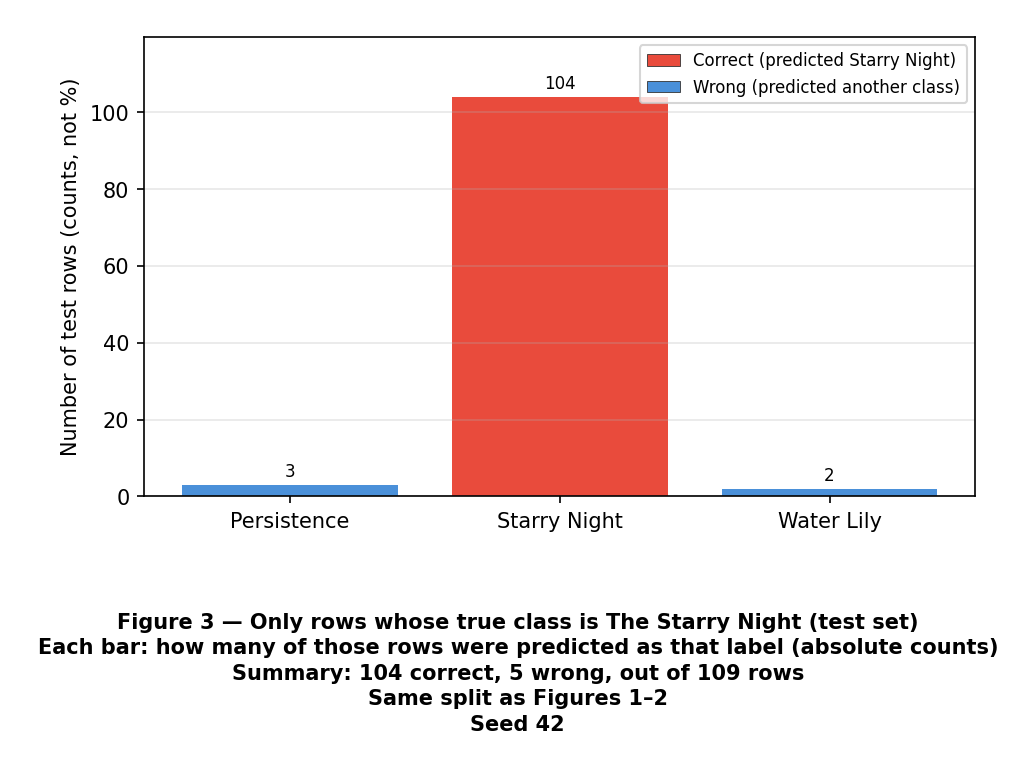
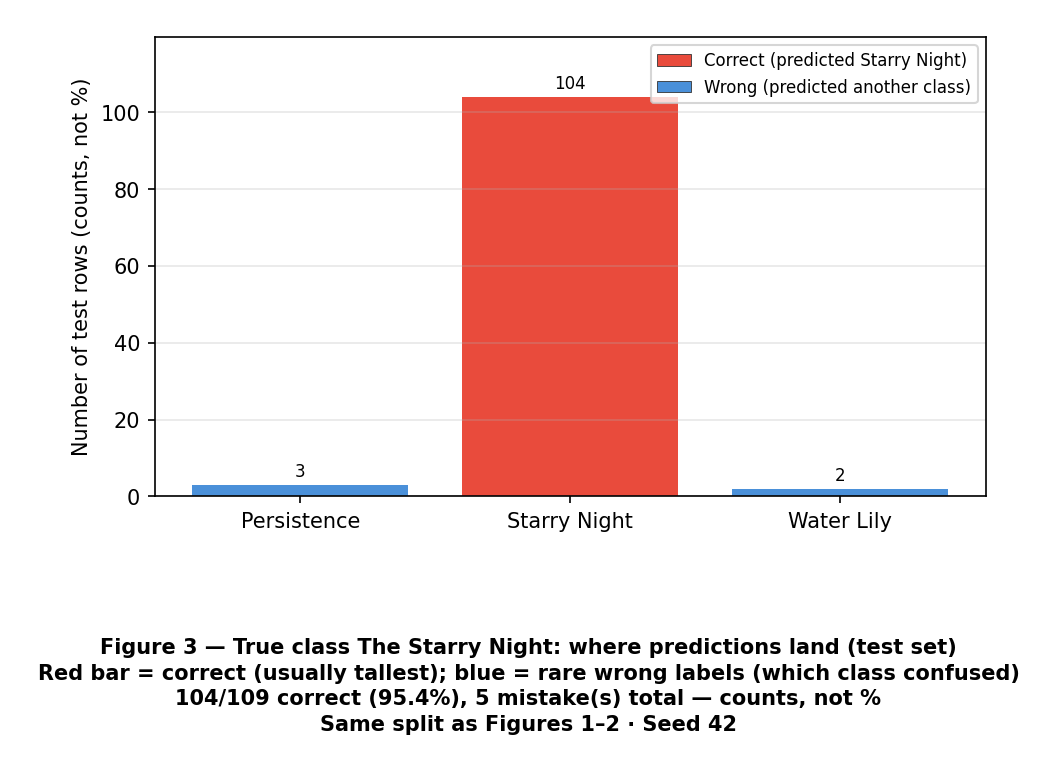
plots fig3: frame as mostly-correct; blue = few confusions by class
Made-with: Cursor

diff --git a/report_figures.py b/report_figures.py
@@ -20,7 +20,7 @@ Usage (repository root, ``training_data.csv`` present)::
     Confusion matrix for stacked classifier on the 20% test set.
 
 ``plots/03_errors_true_starry_night.png``
-    True class Starry Night: **counts** of predicted label (not %); legend = correct vs wrong.
+    Starry Night test rows: mostly correct; blue bars show rare mistakes and confused-into class.
 
 ``plots/04_partition_seed_sensitivity.png``
     Stacking test accuracy vs random seed for the train/test split (same 80/20 protocol).
@@ -202,14 +202,14 @@ def figure_starry_night_errors(r: dict, path: Path, split_seed: int) -> None:
         pass
     top = float(counts.max()) if len(counts) else 0.0
     ax.set_ylim(0, max(top * 1.15, top + 1.0))
+    pct_ok = 100.0 * n_ok / n_sub if n_sub else 0.0
     _figure_label_below(
         fig,
         (
-            "Figure 3 — Only rows whose true class is The Starry Night (test set)",
-            "Each bar: how many of those rows were predicted as that label (absolute counts)",
-            f"Summary: {n_ok} correct, {n_wrong} wrong, out of {n_sub} rows",
-            "Same split as Figures 1–2",
-            f"Seed {split_seed}",
+            "Figure 3 — True class The Starry Night: where predictions land (test set)",
+            "Red bar = correct (usually tallest); blue = rare wrong labels (which class confused)",
+            f"{n_ok}/{n_sub} correct ({pct_ok:.1f}%), {n_wrong} mistake(s) total — counts, not %",
+            f"Same split as Figures 1–2 · Seed {split_seed}",
         ),
     )
     fig.savefig(path, dpi=150, bbox_inches="tight", pad_inches=0.25)

diff --git a/plots/README.md b/plots/README.md
@@ -6,7 +6,7 @@ Generated by `python report_figures.py` from the repository root. Each PNG has a
 |------|-------------------|
 | `01_model_compare_test.png` | Test accuracy and macro-F1 for LR, NB, RF, majority vote, stacking. |
 | `02_confusion_matrix_stacking.png` | Confusion matrix for stacking on the test set. |
-| `03_errors_true_starry_night.png` | True *Starry Night*: **counts** (not %) per predicted label; legend = correct vs wrong; summary line under figure. |
+| `03_errors_true_starry_night.png` | *Starry Night* rows: shows most are correct; blue bars = few confusions and target class. |
 | `04_partition_seed_sensitivity.png` | Stacking test accuracy vs six random seeds (80/20 split protocol). |
 | `05_appendix_model_compare_min_mean_max.csv` | Numeric min/mean/max (model A; add B/C with `--appendix`). |
 | `05_appendix_model_compare.png` | (Optional) Bar chart of min/mean/max if you run with `--appendix`. |
